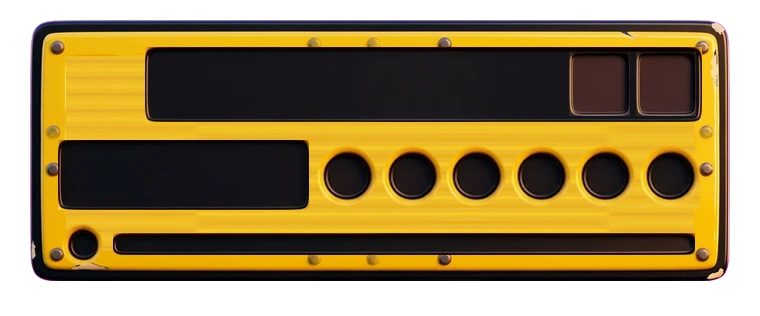
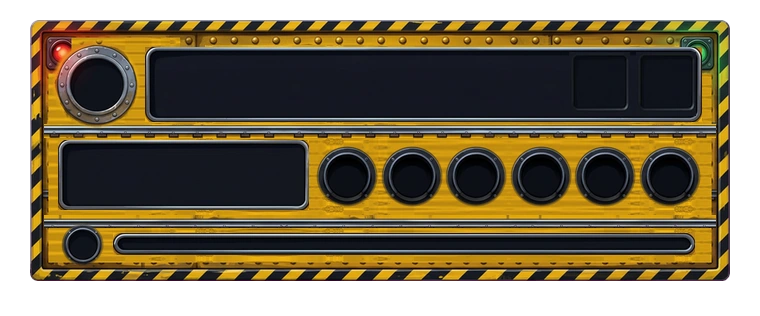
1.f Railway: new riveted signal-yellow steel board (hazard edging, signal lamps, rail dividers, porthole behind the crest — Figma 362:191) on the locked layout
Claude-Session: https://claude.ai/code/session_01EnXvJ8XPeyqCUAaLS3ewZZ

diff --git a/art/ui/hud_lock/build_locked_boards.py b/art/ui/hud_lock/build_locked_boards.py
@@ -49,6 +49,9 @@ def frac_hud():
 
 # ---- per-board source measurements (original px, 760 wide). slots = the board's own HUD fractions ----
 B = {
+ 'railway2': dict(k=.921, Ri=(20, 58, 740, 298), mat=(104, 110, 300, 560), amp=.9, badgeRing=(104, 77, 50), deco=[('rails', [(110, 124, 300, 540), (215, 228, 300, 540)], (44, 716))],
+   chase=[0.2566, 0.0421, 0.9211, 0.1342], wk=[0.7566, 0.0553, 0.8237, 0.125], score=[0.0487, 0.1816, 0.3237, 0.2697],
+   sock=[0.3908, 0.2237, 0.0342], badge=[0.0658, 0.0316, 0.2079, 0.1711], eIcon=[0.1487, 0.3447, 0.0224], eBar=[0.3368, 0.3237, 0.9487, 0.3711]),
  'village2': dict(k=.921, Ri=(30, 27, 728, 290), mat=(139, 147, 380, 560), amp=.9, badgeRing=(110, 100, 55), chaseFrom='score', deco=[('rails', [(126, 140, 300, 560), (231, 245, 300, 560)], (48, 712))],
    chase=[0.2474, 0.0618, 0.9342, 0.1605], wk=[0.7697, 0.0816, 0.8289, 0.1421], score=[0.0684, 0.2237, 0.3947, 0.2895],
    sock=[0.4539, 0.2382, 0.0355], badge=[0.0724, 0.0592, 0.2171, 0.2039], eIcon=[0.1184, 0.3487, 0.0197], eBar=[0.1645, 0.3355, 0.8947, 0.3711]),
